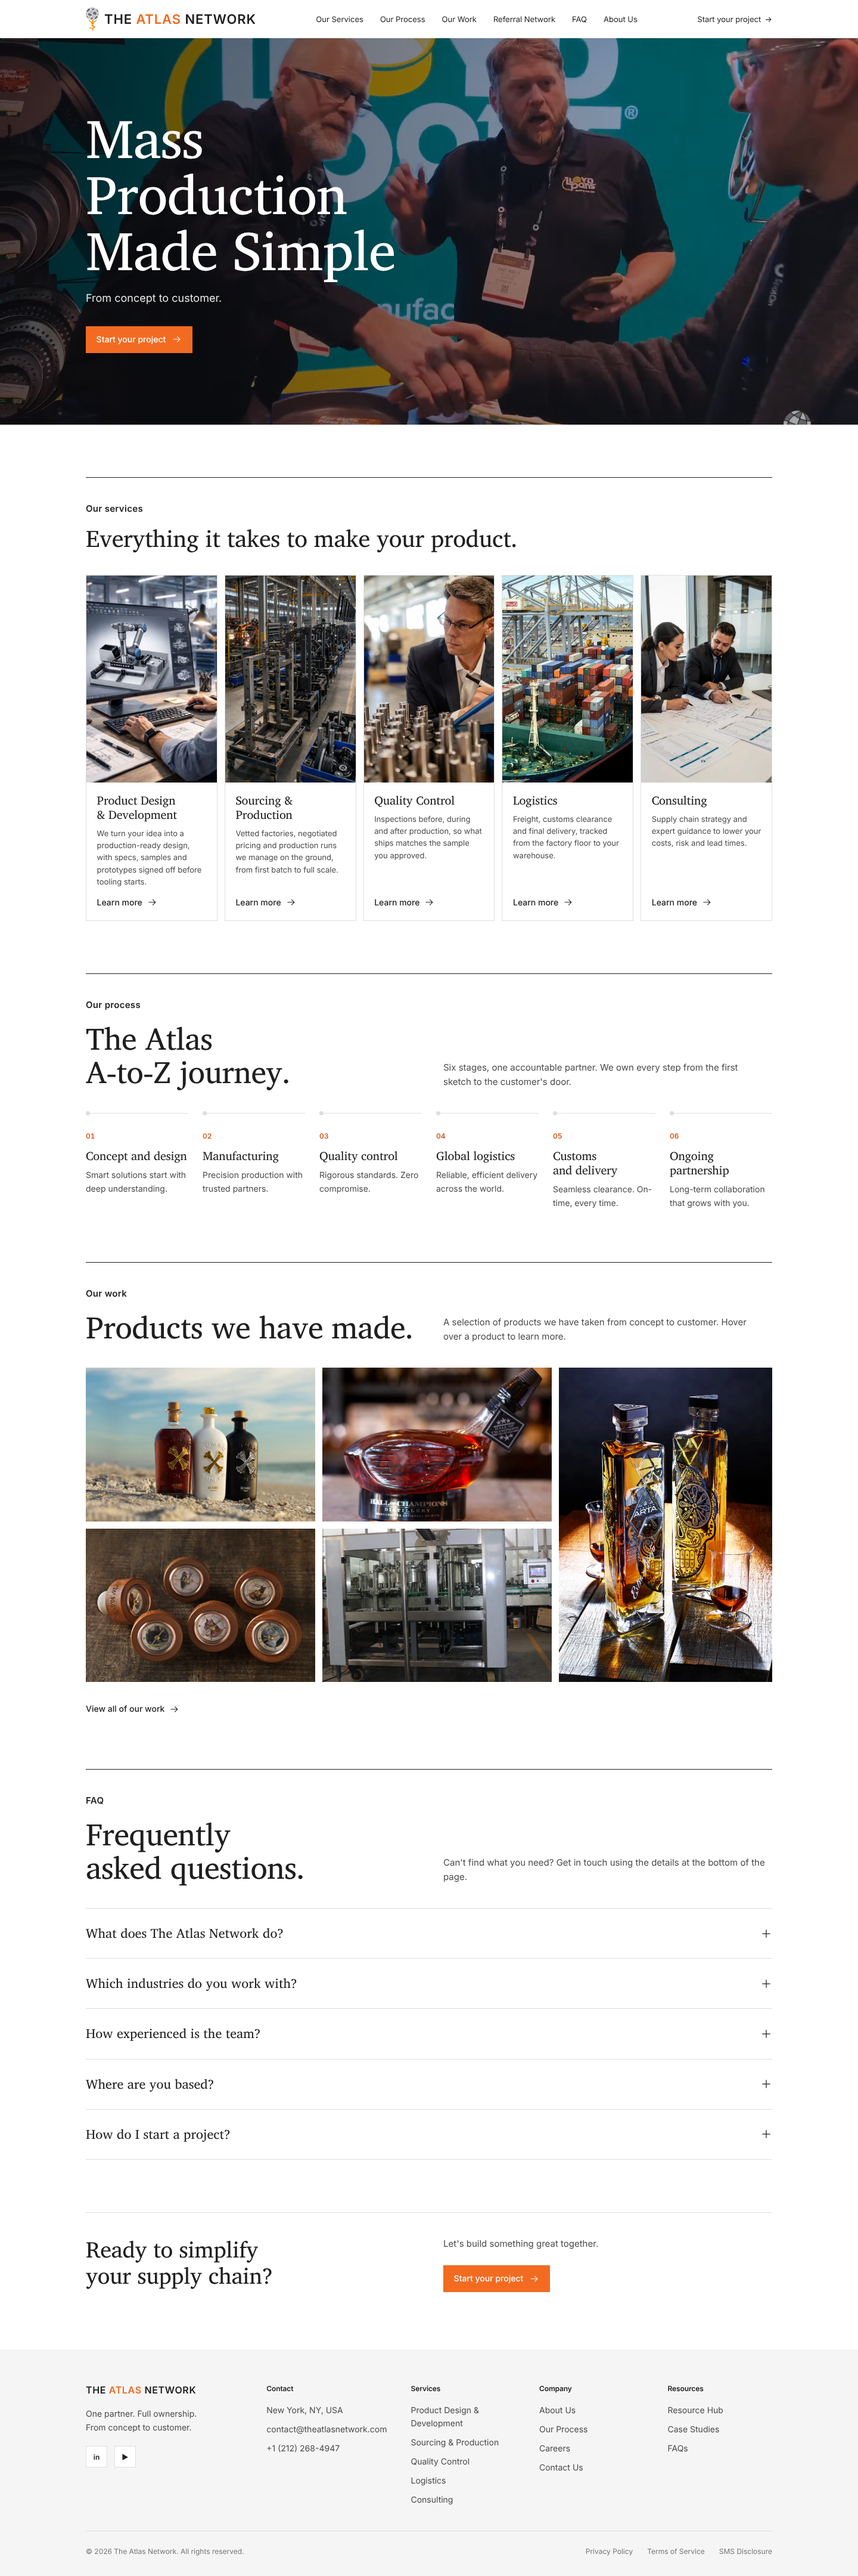
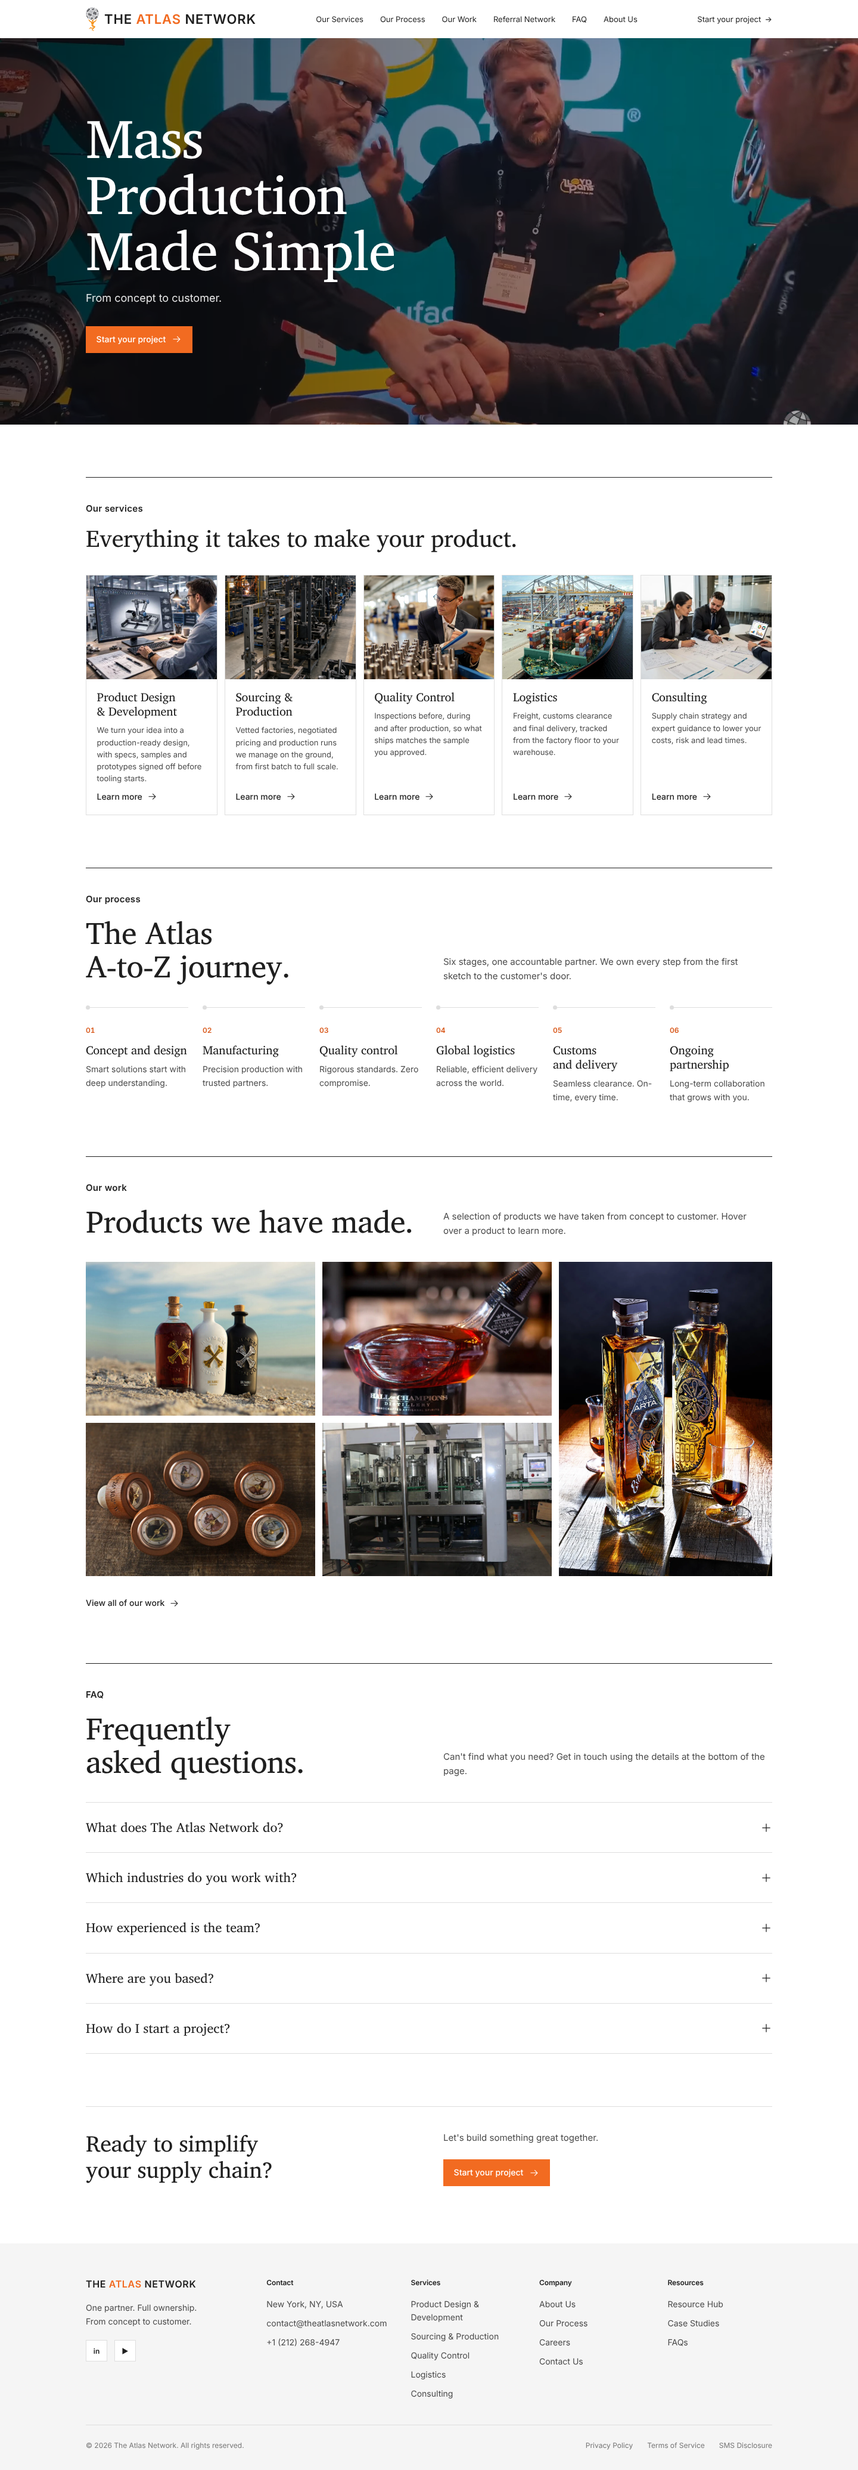
Halve the height of the service card photos
Claude-Session: https://claude.ai/code/session_01YL3eWvwcXdoF4z8yaZ8Eba

diff --git a/index.html b/index.html
@@ -104,9 +104,9 @@
   .section-head--inline h2 { font-size: clamp(1.75rem, 3vw, 2.5rem); }
   .section-head--inline > div { flex: 0 1 auto; }
 
-  /* Services: five cards side by side. Photo fills the top 60%, white text panel the bottom 40%. */
+  /* Services: five cards side by side, each a short photo strip above a white text panel. */
   .services { display: grid; grid-template-columns: repeat(5, minmax(0, 1fr)); gap: 12px; }
-  .service { display: grid; grid-template-rows: 3fr 2fr; height: 580px; overflow: hidden; background: var(--white); border: 1px solid var(--rule); }
+  .service { display: grid; grid-template-rows: 174px 1fr; overflow: hidden; background: var(--white); border: 1px solid var(--rule); }
   .service-img { min-height: 0; overflow: hidden; background: var(--placeholder); }
   .service-img img { width: 100%; height: 100%; object-fit: cover; transition: transform .6s var(--ease); }
   .service:hover .service-img img { transform: scale(1.04); }
@@ -116,8 +116,8 @@
   @media (max-width: 1023px) { .services { grid-template-columns: repeat(3, minmax(0, 1fr)); } }
   @media (max-width: 640px) {
     .services { grid-template-columns: 1fr; }
-    .service { height: auto; grid-template-rows: auto auto; }
-    .service-img { aspect-ratio: 16 / 10; max-width: 100%; }
+    .service { grid-template-rows: auto 1fr; }
+    .service-img { aspect-ratio: 32 / 10; max-width: 100%; }
   }
 
   /* Process: six steps side by side */
